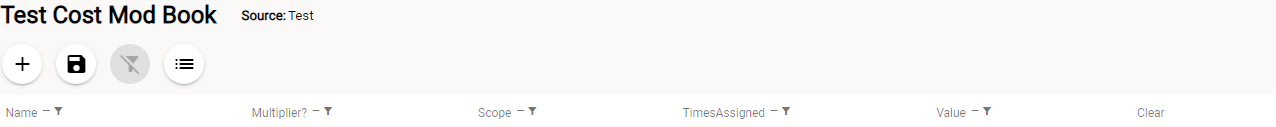
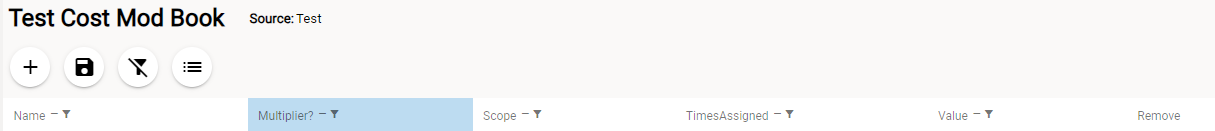
Cost Modifier Updates, Continued

diff --git a/Content/ESMS-WEB/ESMS-Ref-Books/Add-Edit-Del-CM.htm b/Content/ESMS-WEB/ESMS-Ref-Books/Add-Edit-Del-CM.htm
@@ -4,38 +4,53 @@
     </head>
     <body style="text-align: center;">
         <h1 style="text-align: left;">Add, Edit, or Delete a Cost Modifier</h1>
-        <h2 style="text-align: left;">Add a Cost Modifier</h2>
+        <hr style="font-family: Arial;text-align: left;" />
+        <p style="text-align: left;">This topic details how to add, edit, or delete a Cost Modifier to Reference Books. </p>
+        <hr style="font-family: Arial;text-align: left;" />
+        <h2 style="text-align: left;font-style: italic;font-family: Arial;">—Quick Links—</h2>
+        <ul>
+            <li style="text-align: left;">
+                <MadCap:xref href="#Add">Add a Cost Modifier</MadCap:xref>
+            </li>
+            <li style="text-align: left;">
+                <MadCap:xref href="#Edit">Edit a Cost Modifier</MadCap:xref>
+            </li>
+            <li style="text-align: left;">
+                <MadCap:xref href="#Delete">Delete a Cost Modifier</MadCap:xref> </li>
+        </ul>
+        <h2 style="text-align: left;"><a name="Add"></a>Add a Cost Modifier</h2>
         <p style="text-align: left;">To add a cost modifier, </p>
         <img src="imgs/Create-Mod-Icon.png" style="padding-left: 10px;padding-right: 10px;padding-top: 10px;padding-bottom: 10px;" />
         <p style="text-align: left;">Select the <b>Create Modifier</b> button in the Cost Modifier window. The <i>Cost Modifier</i> popup window will appear. </p>
         <img src="imgs/Cost-Mod-Popup-Window.png" style="width: 410px;height: 437px;" />
         <p style="text-align: left;">Enter the following information: </p>
         <ul style="list-style-type: circle;">
-            <li style="text-align: left;"><b style="font-family: Arial;">Type</b> - Indicates whether the cost modifier is a <b style="font-family: Arial;">Multiplier</b> or an <b style="font-family: Arial;">Adder</b>.</li>
-            <li style="text-align: left;"><b>Scope</b> - Indicates whether cost modifier's scope is for a <b>Component</b>, <b>Group</b>, <b>Asset</b>, or <b>Site</b>. </li>
-            <li style="text-align: left;"><b>Value</b> - Indicates the overall cost of the cost modifier. </li>
+            <li style="text-align: left;"><b style="font-family: Arial;">Type</b> - Indicates whether the cost modifier uses a <b style="font-family: Arial;">Multiplier</b> or an <b style="font-family: Arial;">Adder</b>.</li>
+            <li style="text-align: left;"><b>Scope</b> - Indicates whether a cost modifier's scope is for a <b>Component</b>, <b>Group</b>, <b>Asset</b>, or <b>Site</b>. </li>
+            <li style="text-align: left;"><b>Value</b> - Indicates the overall price of the cost modifier. </li>
             <li style="text-align: left;">
                 <MadCap:glossaryTerm glossTerm="Primary.Term37" style="font-weight: bold;">PRV</MadCap:glossaryTerm> - Indicates whether the Plant Replacement Value has been factored into the cost modifier. </li>
         </ul>
-        <p style="text-align: left;">The <b>Name</b> and <b>Description</b> fields are populated with the information entered in the <MadCap:xref href="Add-Cost-Mod-Lib.htm">Add a Cost Modifier Library</MadCap:xref> stage.</p>
-        <p style="text-align: left;">Select the <b>Create</b> button to add your cost modifier. </p>
-        <h2 style="text-align: left;">Edit a Cost Modifier</h2>
+        <p style="text-align: left;margin-left: 32px;"><b>Note:</b> The <b>Name</b> and <b>Description</b> fields are automatically populated with the information entered in the <MadCap:xref href="Add-Cost-Mod-Lib.htm">Add a Cost Modifier Library</MadCap:xref> stage.</p>
+        <p style="text-align: left;">Select the <b>Create</b> button to add your cost modifier, or click <b>Cancel</b> to discard your additions. </p>
+        <h2 style="text-align: left;"><a name="Edit"></a>Edit a Cost Modifier</h2>
         <p style="text-align: left;">To edit a cost modifier, </p>
         <img src="imgs/Cost-Mod-Search.png" style="width: 1133px;height: 185px;padding-left: 10px;padding-right: 10px;padding-top: 10px;padding-bottom: 10px;" />
         <ol>
-            <li style="text-align: left;">Select the modifier you wish to edit in the Cost Modifier window.</li>
-            <li style="text-align: left;">Edit the <b>Name</b>, <b>Description</b>, <b>Type</b>, <b>Scope</b>, <b>Value</b> or <MadCap:glossaryTerm glossTerm="ESMS-gloss.Term7">PRV</MadCap:glossaryTerm> information as needed.</li>
-            <li style="text-align: left;">Click the <b>Update</b> button to conclude the editing process. </li>
+            <li style="text-align: left;">Select a modifier  to edit in the <i>Cost Modifier</i> popup window.</li>
+            <li style="text-align: left;">Within the popup window, edit the <b>Name</b>, <b>Description</b>, <b>Type</b>, <b>Scope</b>, <b>Value</b> 
+				or <MadCap:glossaryTerm glossTerm="ESMS-gloss.Term7">PRV</MadCap:glossaryTerm> information as shown in <MadCap:xref href="#Add">Add a Cost Modifier</MadCap:xref>).</li>
+            <li style="text-align: left;">Click the <b>Update</b> button to complete the edit.</li>
         </ol>
-        <h2 style="text-align: left;">Delete a Cost Modifier</h2>
-        <p style="text-align: left;">To delete a cost modifier, </p>
+        <h2 style="text-align: left;"><a name="Delete"></a>Delete a Cost Modifier</h2>
+        <p style="text-align: left;">To delete a cost modifier,</p>
         <ol style="text-align: center;">
-            <li style="text-align: left;">Open the Cost Modifier window and select the modifier you wish to delete.</li>
+            <li style="text-align: left;">Open the <i>Cost Modifier</i> popup window and select the modifier you wish to delete.</li>
             <img src="imgs/Trashcan-Clear-Icon.png" />
-            <li style="text-align: left;">Select the trashcan icon located under the <b>Remove</b> column to delete the cost modifier. </li>
-            <p style="text-align: left;">&#160;<b>Note</b>: Deleting a modifier will also remove all assignments of that modifier in Enterprise SMS.</p>
+            <li style="text-align: left;">Select the trashcan icon under the <b>Remove</b> column to delete the cost modifier. </li>
+            <p style="text-align: left;">&#160;<b>Note</b>: Deleting a cost modifier will also remove all assignments of that modifier in Enterprise SMS.</p>
         </ol>
-        <h3 style="text-align: left;font-style: normal;">Related Links</h3>
+        <h2 style="text-align: left;">Related Links</h2>
         <ul>
             <li style="text-align: left;">
                 <MadCap:xref href="Ref-Cost-Mod.htm">About Cost Modifiers</MadCap:xref>

diff --git a/Content/ESMS-WEB/ESMS-Ref-Books/Edit-Cost-Mod-Lib.htm b/Content/ESMS-WEB/ESMS-Ref-Books/Edit-Cost-Mod-Lib.htm
@@ -7,30 +7,32 @@
         <hr style="font-family: Arial;text-align: left;" />
         <p style="text-align: left;">This topic details how to edit a cost modifier library. It also details the tasks that can be performed here. </p>
         <hr style="font-family: Arial;text-align: left;" />
-        <p style="text-align: left;"><b>Note</b>:&#160;this process requires Administrator permissions to access. </p>
+        <p style="text-align: left;"><b>Note</b>:&#160;this process requires Administrator permissions. </p>
         <p style="text-align: left;">To edit a cost modifier library,</p>
-        <img src="imgs/Ref-Books-Cost-Mod.png" style="width: 221px;height: 306px;" />
+        <img src="imgs/Ref-Books-Cost-Mod.png" style="width: 221px;height: 306px;padding-left: 10px;padding-right: 10px;padding-top: 10px;padding-bottom: 10px;" />
         <ol>
             <li style="text-align: left;">Select the <b>Reference Books</b> dropdown menu. </li>
             <li style="text-align: left;">Click the <b>Cost Modifiers</b> button.</li>
-            <img src="imgs/Search-CM-Books.png" />
+            <img src="imgs/Search-CM-Books-3.png" style="padding-left: 10px;padding-right: 10px;padding-top: 10px;padding-bottom: 10px;" />
             <li style="text-align: left;">Choose the <b>Cost Modifier</b> library you wish to edit from  the <b>Search</b> window.</li>
+            <img src="imgs/Test-Cost-Mod-Book-Screen.png" style="width: 1208px;height: 168px;padding-left: 10px;padding-right: 10px;padding-top: 10px;padding-bottom: 10px;" />
             <li style="text-align: left;">Select a cost modifier book from the library. The <b>Cost Modifier</b> popup will appear.</li>
         </ol>
-        <img src="imgs/Edit-Cost-Modifier-Popup.png" style="width: 409px;height: 433px;" />
+        <img src="imgs/Edit-Cost-Modifier-Popup.png" style="width: 409px;height: 433px;padding-left: 10px;padding-right: 10px;padding-top: 10px;padding-bottom: 10px;" />
         <p style="text-align: left;">Here, you can edit the following fields:</p>
         <ul>
             <li style="text-align: left;"><b>Type</b> - Indicates whether the cost modifier is a <b>Multiplier</b> or an <b>Adder</b>.</li>
             <li style="text-align: left;"><b>Scope</b> - Indicates whether cost modifier's scope is for a <b>Component</b>, <b>Group</b>, <b>Asset</b>, or <b>Site</b>. </li>
             <li style="text-align: left;"><b>Value</b> - For an adder, the value is a dollar amount. For a multiplier, it is the rate at which the cost should be increased.</li>
-            <li style="text-align: left;"><b>PRV</b> - Select to factor the Plant Replacement Value into the cost modifier. </li>
+            <li style="text-align: left;"><b><MadCap:glossaryTerm glossTerm="Primary.Term37">PRV</MadCap:glossaryTerm></b> - Select to factor the Plant Replacement Value into the cost modifier. </li>
         </ul>
-        <p style="text-align: left;">The <b>Name</b> and <b>Description</b> fields are populated with the information entered in the <MadCap:xref href="Add-Cost-Mod-Lib.htm">Add a Cost Modifier Library</MadCap:xref> stage. The <b>Times Assigned</b> column is automatically populated  as well. </p>
+        <p style="text-align: left;">The <b>Name</b> and <b>Description</b> fields are populated with the information entered in the <MadCap:xref href="Add-Cost-Mod-Lib.htm">Add a Cost Modifier Library</MadCap:xref> stage. 
+		The <b>Times Assigned</b> column is automatically populated as well. </p>
         <ol MadCap:continue="true">
-            <li style="text-align: left;">Once you have finished editing the Cost Modifier fields, select the <b>Update</b> button to add them to the library. </li>
+            <li style="text-align: left;">Once you have finished editing the Cost Modifier fields, select the <b>Update</b> button to add them to the library. To delete these changes, select <b>Cancel</b>. </li>
         </ol>
         <p style="text-align: left;">The columns of the Cost Modifier library are described in <MadCap:xref href="View-Cost-Mod-Lib.htm">View a Cost Modifier Library</MadCap:xref>.</p>
-        <p style="text-align: left;">To add, edit, or delete a cost modifier record, see <MadCap:xref href="Add-Edit-Del-CM.htm">Add, Edit, or Delete a Cost Modifier</MadCap:xref>.</p>
+        <p style="text-align: left;">For information on how to add, edit, or delete a cost modifier record, see <MadCap:xref href="Add-Edit-Del-CM.htm">Add, Edit, or Delete a Cost Modifier</MadCap:xref>.</p>
         <h3 style="font-style: italic;text-align: left;">Related Links</h3>
         <ul>
             <li style="text-align: left;">

diff --git a/Content/ESMS-WEB/ESMS-Ref-Books/Del-Cost-Mod-Lib.htm b/Content/ESMS-WEB/ESMS-Ref-Books/Del-Cost-Mod-Lib.htm
@@ -2,38 +2,38 @@
 <html xmlns:MadCap="http://www.madcapsoftware.com/Schemas/MadCap.xsd">
     <head>
     </head>
-    <body>
-        <h1>Delete a Cost Modifier Library</h1>
+    <body style="text-align: center;">
+        <h1 style="text-align: left;">Delete a Cost Modifier Library</h1>
         <hr style="font-family: Arial;text-align: left;" />
-        <p>This topic details how to delete a cost modifier library. It also details the tasks that can be performed here. </p>
+        <p style="text-align: left;">This topic details how to delete a cost modifier library. It also details the tasks that can be performed here. </p>
         <hr style="font-family: Arial;text-align: left;" />
-        <p><b>Note</b>:&#160;this process requires Administrator permissions. </p>
-        <p>To delete a cost modifier library,</p>
+        <p style="text-align: left;"><b>Note</b>:&#160;this process requires Administrator permissions. </p>
+        <p style="text-align: left;">To delete a cost modifier library,</p>
+        <img src="imgs/Ref-Books-Cost-Mod.png" style="width: 209px;height: 289px;padding-left: 10px;padding-right: 10px;padding-top: 10px;padding-bottom: 10px;" />
         <ol style="text-align: center;">
             <li style="text-align: left;">Select the <b>Reference Books</b> dropdown menu. </li>
-            <img src="imgs/Ref-Books-Cost-Mod.png" style="width: 209px;height: 289px;" />
             <li style="text-align: left;">Click the <b>Cost Modifiers</b> button.</li>
-            <li style="text-align: left;">Choose the <b>Cost Modifier</b> library you wish to delete from  the <b>Search CM&#160;Books</b> window.</li>
-            <img src="imgs/Search-CM-Books.png" />
-            <li style="text-align: left;">Click the trashcan icon (<img src="imgs/Delete-Trashcan-Icon.png" style="padding-left: 0px;padding-right: 0px;padding-top: 0px;padding-bottom: 0px;" />) to delete the selected cost modifier library.</li>
-            <img src="imgs/Del-Cost-Mod-Book-Popup.png" style="width: 231px;height: 152px;" />
+            <img src="imgs/Search-CM-Books.png" style="padding-left: 10px;padding-right: 10px;padding-top: 10px;padding-bottom: 10px;" />
+            <li style="text-align: left;">Choose the <b>Cost Modifier</b> library you wish to delete from the <b>Search CM&#160;Books</b> window.</li>
+            <li style="text-align: left;">Click the trashcan icon highlighted above to delete the selected cost modifier library.</li>
+            <img src="imgs/Del-Cost-Mod-Book-Popup.png" style="width: 231px;height: 152px;padding-left: 10px;padding-right: 10px;padding-top: 10px;padding-bottom: 10px;" />
             <li style="text-align: left;">In the confirmation popup window, activate the <b>Confirm</b> button to complete the deletion (alternatively, select <b>Close</b> to prevent the deletion). </li>
         </ol>
-        <h3 style="font-style: italic;">Related Links</h3>
+        <h2 style="text-align: left;">Related Links</h2>
         <ul>
-            <li>
+            <li style="text-align: left;">
                 <MadCap:xref href="Ref-Cost-Mod.htm">About Cost Modifiers</MadCap:xref>
             </li>
-            <li>
+            <li style="text-align: left;">
                 <MadCap:xref href="Edit-Cost-Mod-Lib.htm">Edit a Cost Modifier Library</MadCap:xref>
             </li>
-            <li>
+            <li style="text-align: left;">
                 <MadCap:xref href="Add-Cost-Mod-Lib.htm">Add a Cost Modifier Library</MadCap:xref>
             </li>
-            <li>
+            <li style="text-align: left;">
                 <MadCap:xref href="Edit-Cost-Mod-Lib.htm">Edit a Cost Modifier Library</MadCap:xref>
             </li>
-            <li>
+            <li style="text-align: left;">
                 <MadCap:xref href="Add-Edit-Del-CM.htm">Add, Edit, or Delete a Cost Modifier</MadCap:xref>
             </li>
         </ul>

diff --git a/Content/ESMS-WEB/ESMS-Ref-Books/Add-Cost-Mod-Lib.htm b/Content/ESMS-WEB/ESMS-Ref-Books/Add-Cost-Mod-Lib.htm
@@ -4,6 +4,9 @@
     </head>
     <body style="text-align: center;">
         <h1 style="text-align: left;">Add a Cost Modifier Library</h1>
+        <hr style="font-family: Arial;text-align: left;" />
+        <p style="text-align: left;">This topic details how to add a Cost Modifier library. It also details the tasks that can be performed here. </p>
+        <hr style="font-family: Arial;text-align: left;" />
         <p style="text-align: left;">A cost modifier library can be created for any Organization or Site in Enterprise SMS. <b>Note</b>: this process requires elevated permissions. </p>
         <p style="text-align: left;">To add a cost modifier library,</p>
         <img src="imgs/Current-Org.png" style="padding-left: 10px;padding-right: 10px;padding-top: 10px;padding-bottom: 10px;" />
@@ -13,15 +16,16 @@
             <li style="text-align: left;">Select the <b>Reference Books</b> dropdown, followed by the <b>Cost Modifiers</b> button.</li>
             <img src="imgs/Add-Cost-Mod-Book-Icon.png" style="padding-left: 10px;padding-right: 10px;padding-top: 10px;padding-bottom: 10px;" />
             <li style="text-align: left;">Choose the <b>Add Book</b> icon that appears above the <b>Search CM&#160;Books</b> window.</li>
-            <img src="imgs/Create-Cost-Mod-Book.png" style="padding-left: 10px;padding-right: 10px;padding-top: 10px;padding-bottom: 10px;width: 399px;height: 427px;" />
-            <li style="text-align: left;">The <b>Create Cost Modifier Book</b> popup window will appear. Here, you will enter the <b>Cost Modifier Book Name</b> and <b>Source</b> information. In addition, you can also <b>Copy an Existing Book</b> if you would like to use existing cost modifier data.</li>
-            <li style="text-align: left;">Click the <b>Create</b> button to add your <b>Cost Modifier</b> library.</li>
+            <img src="imgs/Create-Cost-Mod-Book-2.png" style="width: 514px;height: 437px;" />
+            <li style="text-align: left;">The <b>Create Cost Modifier Book</b> popup window will appear. Here, you will enter the <b>Cost Modifier Book Name</b> and <b>Source</b> information. In addition, you can also <b>Copy an Existing Book</b> if you want to use existing cost modifier data. </li>
+            <p style="text-align: left;margin-left: 32px;"><b>Note</b>:&#160;the Organization information is automatically populated by ESMS.</p>
+            <li style="text-align: left;">Click the <b>Update</b> button to add your <b>Cost Modifier</b> library.</li>
             <img src="imgs/Cost-Mod-Book-Window.png" style="width: 1092px;height: 110px;padding-left: 10px;padding-right: 10px;padding-top: 10px;padding-bottom: 10px;" />
         </ol>
         <p style="text-align: left;">The <b>Cost Modifiers</b> window will display, with the name of the library at the top. You can now edit the library's name, create new cost modifiers to include in the library, or edit existing modifiers. </p>
         <p style="text-align: left;">The columns of the cost modifier library are described in <MadCap:xref href="View-Cost-Mod-Lib.htm">View a Cost Modifier Library</MadCap:xref>.</p>
         <p style="text-align: left;">To add, edit, or delete a cost modifier record, see <MadCap:xref href="Add-Edit-Del-CM.htm">Add, Edit, or Delete a Cost Modifier</MadCap:xref>. </p>
-        <h3 style="font-style: italic;text-align: left;">Related Links</h3>
+        <h2 style="text-align: left;">Related Links</h2>
         <ul>
             <li style="text-align: left;">
                 <MadCap:xref href="Ref-Cost-Mod.htm">About Cost Modifiers</MadCap:xref>

diff --git a/Content/ESMS-WEB/ESMS-Ref-Books/Ref-Cost-Mod.htm b/Content/ESMS-WEB/ESMS-Ref-Books/Ref-Cost-Mod.htm
@@ -29,7 +29,6 @@
             </li>
         </ul>
         <h2><a name="Cost"></a>Cost Modifier Basics</h2>
-        <p style="font-style: italic;"> </p>
         <p><b>Cost Modifiers</b> are multipliers or adders that can be applied in order to adjust Section replacement costs. Users can create a cost modifier to increase costs by 10%. Modified costs  
 		also affect <MadCap:glossaryTerm glossTerm="Primary.Term18">CI</MadCap:glossaryTerm> roll-up weights, work 
 			plan item costs, and costs output by Scenario simulations. </p>
